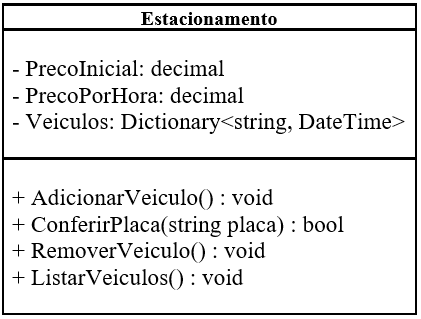
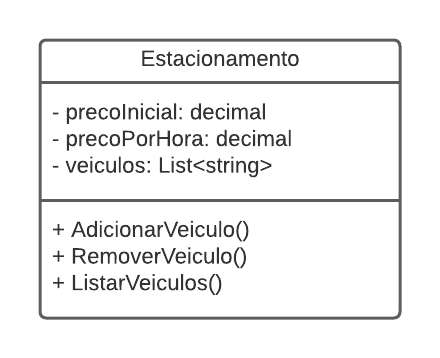
Alteracao do nome dos parametros do construtor para camelCase, adicao do antigo diagrama de classe

Changed region(s): [[0.0, 0.0, 1.0, 0.9875], [0.7102, 0.6771, 0.8337, 0.7335]]

diff --git a/DesafioFundamentos/Models/Estacionamento.cs b/DesafioFundamentos/Models/Estacionamento.cs
@@ -19,24 +19,24 @@ namespace DesafioFundamentos.Models
         /// </summary>
         /// <param name="PrecoInicial">Indica quanto que deve pagar para o veículo adentrar no estacionamento.</param>
         /// <param name="PrecoPorHora">Indica qual valor será cobrado por hora que o veículo permaneceu no estacionamento.</param>
-        public Estacionamento(decimal PrecoInicial, decimal PrecoPorHora)
+        public Estacionamento(decimal precoInicial, decimal precoPorHora)
         {
             do
             {
-                if(PrecoInicial < 0)
+                if(precoInicial < 0)
                 {
                     Console.WriteLine("Digite o preco inicial, ele deve ser positivo.");
-                    Decimal.TryParse(Console.ReadLine(), out PrecoInicial); // Evita o FormatException
+                    Decimal.TryParse(Console.ReadLine(), out precoInicial); // Evita o FormatException
                 }
-                if(PrecoPorHora < 0)
+                if(precoPorHora < 0)
                 {
                     Console.WriteLine("Digite o preco por hora, ele deve ser positivo.");
-                    Decimal.TryParse(Console.ReadLine(), out PrecoPorHora);  
+                    Decimal.TryParse(Console.ReadLine(), out precoPorHora);  
                 }
-            } while (PrecoInicial < 0 || PrecoPorHora < 0);
+            } while (precoInicial < 0 || PrecoPorHora < 0);
 
-            this.PrecoInicial = PrecoInicial;
-            this.PrecoPorHora = PrecoPorHora;
+            this.PrecoInicial = precoInicial;
+            this.PrecoPorHora = precoPorHora;
         }
 
         /// <summary>
